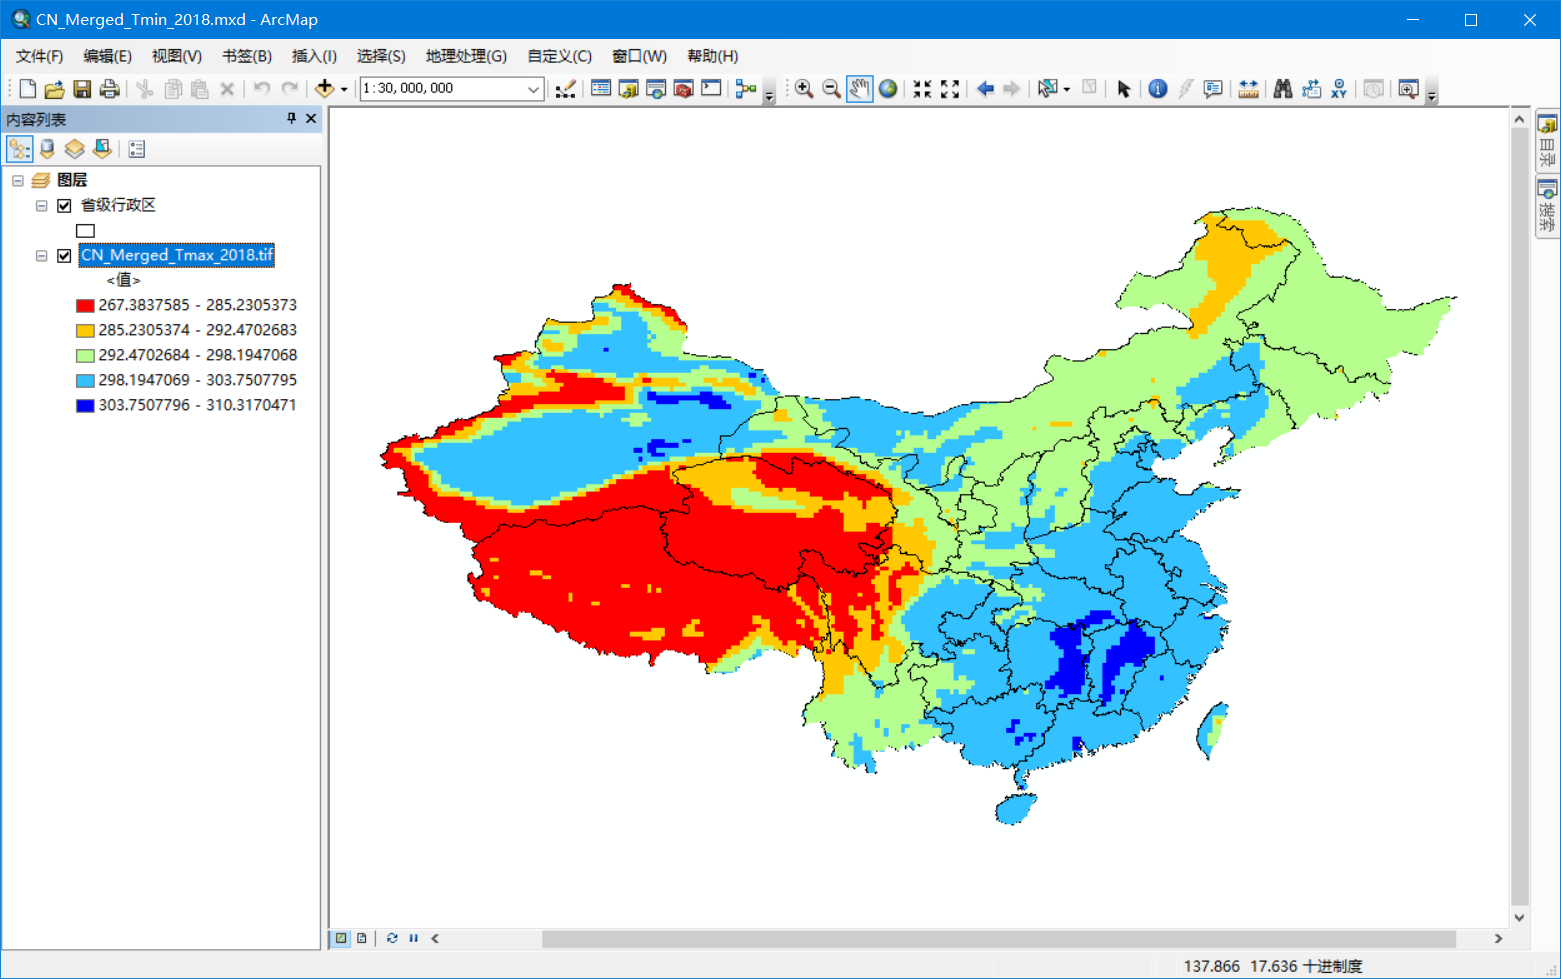
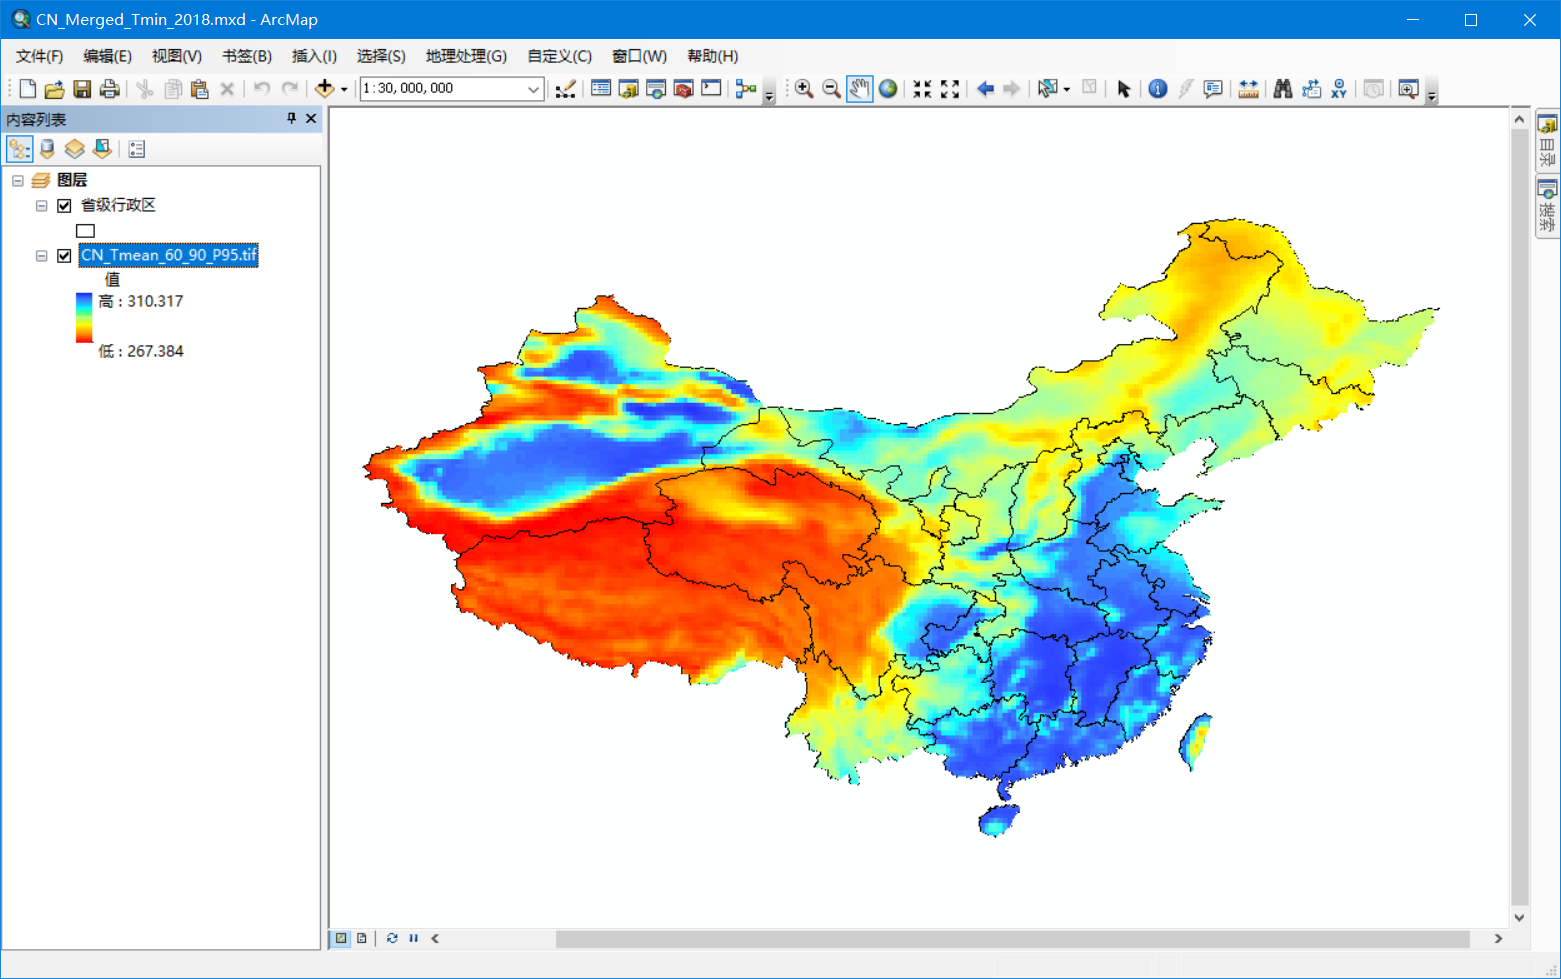
.

diff --git a/post/20220227.html b/post/20220227.html
@@ -3,30 +3,31 @@
 
 <head>
 	<title>TimeLine - RenKai</title>
-	<link rel="shortcut icon" href="../../images/favicon.ico" type="image/x-icon">
+	<link rel="shortcut icon" href="../images/favicon.ico" type="image/x-icon">
 	<meta http-equiv="content-type" content="text/html; charset=utf-8" />
 	<link href="http://fonts.googleapis.com/css?family=Source+Sans+Pro:400,400italic,700|Open+Sans+Condensed:300,700"
 		rel="stylesheet" />
-	<script src="../../js/jquery-1.8.3.min.js"></script>
-	<script src="../../css/5grid/init.js?use=mobile,desktop,1200px,1000px&amp;mobileUI=1&amp;mobileUI.theme=none">
+	<script src="../js/jquery-1.8.3.min.js"></script>
+	<script src="../css/5grid/init.js?use=mobile,desktop,1200px,1000px&amp;mobileUI=1&amp;mobileUI.theme=none">
 	</script>
 	<!-- <script src="https://kit.fontawesome.com/94a7dae2f4.js" crossorigin="anonymous"></script> -->
-	<script src="../../js/fontawesome.js"></script>
-	<link rel="stylesheet" href="../../css/devibeans.min.css">
+	<script src="../js/fontawesome.js"></script>
+	<link rel="stylesheet" href="../css/devibeans.min.css">
 	<script src="http://apps.bdimg.com/libs/highlight.js/9.1.0/highlight.min.js"></script>
-	<script
+	<!-- <script
 		src="https://cdnjs.cloudflare.com/ajax/libs/highlightjs-line-numbers.js/2.5.0/highlightjs-line-numbers.min.js">
-	</script>
+	</script> -->
+	<script src="../js/highlightjs-line-numbers.min.js"></script>
 	<script type="text/javascript" src="https://cdn.mathjax.org/mathjax/latest/MathJax.js?config=TeX-AMS_HTML">
 	</script>
 	<noscript>
-		<link rel="stylesheet" href="../../css/5grid/core.css" />
-		<link rel="stylesheet" href="../../css/5grid/core-desktop.css" />
-		<link rel="stylesheet" href="../../css/5grid/core-1200px.css" />
-		<link rel="stylesheet" href="../../css/5grid/core-noscript.css" />
-		<link rel="stylesheet" href="../../css/style.css" />
-		<link rel="stylesheet" href="../../css/style-desktop.css" />
-		<link rel="stylesheet" href="../../css/style-1200px.css" />
+		<link rel="stylesheet" href="../css/5grid/core.css" />
+		<link rel="stylesheet" href="../css/5grid/core-desktop.css" />
+		<link rel="stylesheet" href="../css/5grid/core-1200px.css" />
+		<link rel="stylesheet" href="../css/5grid/core-noscript.css" />
+		<link rel="stylesheet" href="../css/style.css" />
+		<link rel="stylesheet" href="../css/style-desktop.css" />
+		<link rel="stylesheet" href="../css/style-1200px.css" />
 	</noscript>
 
 </head>
@@ -48,25 +49,26 @@
 						</span>
 					</header>
 					<p>
-						<strong>时间：</strong> 2022/02/24
+						<strong>时间：</strong> 2022/02/21 - 2022/02/27
 					</p>
 					<p>
 						<strong>内容：</strong>
 					</p>
 					<p class="meeting-p">
-						① 将三个代码文件替换为中国区域，跑通并成功输出影像数据，其中<cite>SILO</cite>数据替换为<cite>REA5</cite>
+						① 将<q>TX90_TN90.js, Threshold_P95_SILO.js,
+							SILO_Heatwaverecords.js</q>三个代码文件替换为“中国区域”，跑通并成功输出影像数据（<cite>CN_Merged_Tmin_2018.tif,
+							CN_Merged_Tmax_2018.tif,
+							CN_Tmean_60_90_P95.tif</cite>）（见下图），其中<cite>SILO</cite>数据替换为<cite>REA5</cite>。
+						<q>ERA5_Heatwaverecords.js</q>还有一些问题，需要继续修改。
 					</p>
-					<img src="../../images/2022/20220227-01.png" class="image image-full">
-					<img src="../../images/2022/20220227-02.png" class="image image-full">
-					<img src="../../images/2022/20220227-03.png" class="image image-full">
+					<img src="../images/2022/20220227-01.png" class="image image-full">
+					<img src="../images/2022/20220227-02.png" class="image image-full">
+					<img src="../images/2022/20220227-03.png" class="image image-full">
 					<p class="meeting-p">
-						②
+						② 列出一些代码的修改：
 					</p>
 					<p class="meeting-p">
-						③
-					</p>
-					<p class="meeting-p">
-						④ <cite>function siloset(image)</cite> 核心修改：
+						<cite>function siloset(image)</cite> 核心修改：
 					</p>
 					<pre><code class="language-javascript">// 设置四个属性：'system:time_start','system:time_end','year','no'
 function siloset(image){
@@ -91,7 +93,29 @@ function siloset(image){
 	});
 }</code></pre>
 					<p class="meeting-p">
-						⑤ 精读于老师发来的关于农业保险的文献：
+						其他修改：
+					</p>
+					<pre><code class="language-javascript">var strcol = silotempcol.select('minimum_2m_air_temperature').filter(ee.Filter.and(ee.Filter.gte('no',id_beg),ee.Filter.lte('no',id_end)));
+// 计算90%
+var TP90 = strcol.reduce(ee.Reducer.percentile([90]));
+// 减去
+var tempimage = image.select('minimum_2m_air_temperature').subtract(TP90);
+
+var strcol = silotempcol.select('maximum_2m_air_temperature').filter(ee.Filter.and(ee.Filter.gte('no',id_beg),ee.Filter.lte('no',id_end)));
+// 计算90%
+var TP90 = strcol.reduce(ee.Reducer.percentile([90]));
+// 减去
+var tempimage = image.select('maximum_2m_air_temperature').subtract(TP90);</code></pre>
+					<pre><code class="language-javascript">var strcol_1 = silotempcol.select('minimum_2m_air_temperature').filter(ee.Filter.and(ee.Filter.gte('no',id_beg),ee.Filter.lte('no',365)));
+var strcol_2 = silotempcol.select('minimum_2m_air_temperature').filter(ee.Filter.and(ee.Filter.gte('no',0),ee.Filter.lte('no',id_end)));</code></pre>
+					<pre><code class="language-javascript">var table = ee.FeatureCollection("USDOS/LSIB_SIMPLE/2017");
+// 边界数据，选出中国区域（含台湾）
+var Name_List = ee.List( ['China','Taiwan'] );
+var Inlist_Filter   = ee.Filter.inList( 'country_na', Name_List);
+var China   = table.filter(Inlist_Filter);
+var geometry = China.geometry();</code></pre>
+					<p class="meeting-p">
+						③ 精读于老师发来的关于农业保险的文献：
 					</p>
 					<p class="meeting-p"><strong>Title：</strong></p>
 					<p class="meeting-p"><cite>Insurance subsidies, climate change, and innovation: Implications for
@@ -208,7 +232,7 @@ function siloset(image){
 					<p class="meeting-p">
 						对国内农业政策的影响表明，作物保险补贴的减少将提高未来的产量弹性。但是，其他保险办法，例如共同保险，即由农民和保险公司分担低于保证金的损失，也可以达到同样的效果。虽然共同保险在许多形式的保险中占主导地位，但在许多发达国家，共同保险并不在由政府补贴的作物保险计划中。
 					</p>
-					<p class="meeting-p"><strong><cite>Something did I get</cite></strong></p>
+					<p class="meeting-p"><strong><cite>Something did I get:</cite></strong></p>
 					<p class="meeting-p">
 						这篇文章主要是针对作物产量弹性和保险补贴、气候变化之间的关系开展研究，农作物保险补贴在全世界各个国家的农业开支中占有非常大的比例，农业保险不仅可以保障农户的收益，扩展农作物种植面积，还能增加新技术的采用率，带来更多的创新。同时，政府相关扶持政策的实施和转基因种子的大量采用进一步增大了产量弹性。这个文章主要还是在前人成果的基础上加以验证，得到一致的研究结论，在考虑了气候变化、空间相关性、空间滞后性、保险补贴率和转基因种子采用率的基础上，最后构建了一个混合模型进行检验。
 					</p>
@@ -229,8 +253,8 @@ function siloset(image){
 			<!-- Nav -->
 			<nav id="nav" class="mobileUI-site-nav">
 				<ul>
-					<li><a href="../../">Time Line</a></li>
-					<li><a href="../../about">About Me</a></li>
+					<li><a href="../index.html">Time Line</a></li>
+					<li><a href="../about.html">About Me</a></li>
 					<li class="current_page_item"><a href="#">Details</a></li>
 				</ul>
 			</nav>
@@ -247,7 +271,7 @@ function siloset(image){
 			<div id="copyright">
 				<a target="_blank" href="http://www.beian.gov.cn/portal/registerSystemInfo?recordcode=61909002000104"
 					style="display:inline-block;text-decoration:none;height:20px;line-height:20px;"><img
-						src="../../images/beian.png" style="float:left;" />
+						src="../images/beian.png" style="float:left;" />
 					<p style="float:left;height:20px;line-height:20px;margin: 0px 0px 0px 5px; color:#939393;">陕公网安备
 						61909002000104号</p>
 				</a>

diff --git a/post/20220218.html b/post/20220218.html
@@ -3,24 +3,24 @@
 
 <head>
 	<title>TimeLine - RenKai</title>
-	<link rel="shortcut icon" href="../../images/favicon.ico" type="image/x-icon">
+	<link rel="shortcut icon" href="../images/favicon.ico" type="image/x-icon">
 	<meta http-equiv="content-type" content="text/html; charset=utf-8" />
 	<link href="http://fonts.googleapis.com/css?family=Source+Sans+Pro:400,400italic,700|Open+Sans+Condensed:300,700"
 		rel="stylesheet" />
-	<script src="../../js/jquery-1.8.3.min.js"></script>
-	<script src="../../css/5grid/init.js?use=mobile,desktop,1200px,1000px&amp;mobileUI=1&amp;mobileUI.theme=none">
+	<script src="../js/jquery-1.8.3.min.js"></script>
+	<script src="../css/5grid/init.js?use=mobile,desktop,1200px,1000px&amp;mobileUI=1&amp;mobileUI.theme=none">
 	</script>
 	<!-- <script src="https://kit.fontawesome.com/94a7dae2f4.js" crossorigin="anonymous"></script> -->
-	<script src="../../js/fontawesome.js"></script>
+	<script src="../js/fontawesome.js"></script>
 
 	<noscript>
-		<link rel="stylesheet" href="../../css/5grid/core.css" />
-		<link rel="stylesheet" href="../../css/5grid/core-desktop.css" />
-		<link rel="stylesheet" href="../../css/5grid/core-1200px.css" />
-		<link rel="stylesheet" href="../../css/5grid/core-noscript.css" />
-		<link rel="stylesheet" href="../../css/style.css" />
-		<link rel="stylesheet" href="../../css/style-desktop.css" />
-		<link rel="stylesheet" href="../../css/style-1200px.css" />
+		<link rel="stylesheet" href="../css/5grid/core.css" />
+		<link rel="stylesheet" href="../css/5grid/core-desktop.css" />
+		<link rel="stylesheet" href="../css/5grid/core-1200px.css" />
+		<link rel="stylesheet" href="../css/5grid/core-noscript.css" />
+		<link rel="stylesheet" href="../css/style.css" />
+		<link rel="stylesheet" href="../css/style-desktop.css" />
+		<link rel="stylesheet" href="../css/style-1200px.css" />
 	</noscript>
 </head>
 
@@ -83,8 +83,8 @@
 			<!-- Nav -->
 			<nav id="nav" class="mobileUI-site-nav">
 				<ul>
-					<li><a href="../../index.html">Time Line</a></li>
-					<li><a href="../../about">About Me</a></li>
+					<li><a href="../index.html">Time Line</a></li>
+					<li><a href="../about.html">About Me</a></li>
 					<li class="current_page_item"><a href="#">Details</a></li>
 				</ul>
 			</nav>
@@ -101,7 +101,7 @@
 			<div id="copyright">
 				<a target="_blank" href="http://www.beian.gov.cn/portal/registerSystemInfo?recordcode=61909002000104"
 					style="display:inline-block;text-decoration:none;height:20px;line-height:20px;"><img
-						src="../../images/beian.png" style="float:left;" />
+						src="../images/beian.png" style="float:left;" />
 					<p style="float:left;height:20px;line-height:20px;margin: 0px 0px 0px 5px; color:#939393;">陕公网安备
 						61909002000104号</p>
 				</a>

diff --git a/js/highlightjs-line-numbers.min.js b/js/highlightjs-line-numbers.min.js
@@ -1,0 +1,1 @@
+!function(n,e){"use strict";function t(){var n=e.createElement("style");n.type="text/css",n.innerHTML=u(".{0}{border-collapse:collapse}.{0} td{padding-left:10px}.{1}:before{content:attr({2})}",[f,m,j]),e.getElementsByTagName("head")[0].appendChild(n)}function r(t){"interactive"===e.readyState||"complete"===e.readyState?i(t):n.addEventListener("DOMContentLoaded",function(){i(t)})}function i(t){try{var r=e.querySelectorAll("code.hljs,code.nohighlight");for(var i in r)r.hasOwnProperty(i)&&l(r[i],t)}catch(o){n.console.error("LineNumbers error: ",o)}}function l(n,e){if("object"==typeof n){e=e||{singleLine:!1};var t=e.singleLine?0:1;h(function(){s(n),n.innerHTML=o(n.innerHTML,t)})}}function o(n,e){var t=c(n);if(""===t[t.length-1].trim()&&t.pop(),t.length>e){for(var r="",i=0,l=t.length;i<l;i++)r+=u('<tr><td class="{0}"><div class="{1} {2}" {3}="{5}"></div></td><td class="{4}"><div class="{1}">{6}</div></td></tr>',[p,g,m,j,v,i+1,t[i].length>0?t[i]:" "]);return u('<table class="{0}">{1}</table>',[f,r])}return n}function s(n){var e=n.childNodes;for(var t in e)if(e.hasOwnProperty(t)){var r=e[t];d(r.textContent)>0&&(r.childNodes.length>0?s(r):a(r.parentNode))}}function a(n){var e=n.className;if(/hljs-/.test(e)){for(var t=c(n.innerHTML),r=0,i="";r<t.length;r++){var l=t[r].length>0?t[r]:" ";i+=u('<span class="{0}">{1}</span>\n',[e,l])}n.innerHTML=i.trim()}}function c(n){return 0===n.length?[]:n.split(L)}function d(n){return(n.trim().match(L)||[]).length}function h(e){n.setTimeout(e,0)}function u(n,e){return n.replace(/\{(\d+)\}/g,function(n,t){return e[t]?e[t]:n})}var f="hljs-ln",g="hljs-ln-line",v="hljs-ln-code",p="hljs-ln-numbers",m="hljs-ln-n",j="data-line-number",L=/\r\n|\r|\n/g;n.hljs?(n.hljs.initLineNumbersOnLoad=r,n.hljs.lineNumbersBlock=l,t()):n.console.error("highlight.js not detected!")}(window,document);

diff --git a/index.html b/index.html
@@ -243,7 +243,8 @@
 						<tr>
 							<td class="td-date">21</td>
 							<td class="td-content" rowspan="7"><span>
-									① <q>TX90_TN90.js</q> 文件成功修改为计算“中国区域”，<b>SILO</b> 数据替换为 <b>ERA5</b>。
+									① <q>TX90_TN90.js, Threshold_P95_SILO.js,
+										SILO_Heatwaverecords.js</q>文件成功修改为计算“中国区域”，其中<cite>SILO</cite>数据替换为<cite>REA5</cite>。<q>ERA5_Heatwaverecords.js</q>还有一些问题，需要继续修改。
 								</span><span>
 									② 阅读于老师发来的农业保险相关文献：“<a
 										href="https://www.sciencedirect.com/science/article/pii/S030691922200015X"
@@ -253,7 +254,7 @@
 										and innovation: Implications for crop yield resiliency，Food Policy. Volume: 108.
 										2022</a>”</span>
 							</td>
-							<td class="td-notes" rowspan="7"><span><a href="post/20220227/"
+							<td class="td-notes" rowspan="7"><span><a href="post/20220227.html"
 										target="_blank">查看详情>></a></span></td>
 						</tr>
 						<tr>

diff --git a/css/style.css b/css/style.css
@@ -755,7 +755,7 @@ code {
 	font-size: 13pt;
 	line-height: 1.25em;
 	overflow-x: auto;
-	padding: 0.5em;
+	/* padding: 0.5em; */
 	scrollbar-width: thin;
 	-moz-tab-size: 4;
 	tab-size: 4;
@@ -768,7 +768,7 @@ td.hljs-ln-numbers {
 	color: #4f8291;
 	/* color: #2F7689;
 	background-color: white; */
-	vertical-align: top;
+	/* vertical-align: middle; */
 }
 
 /* for block of code */
